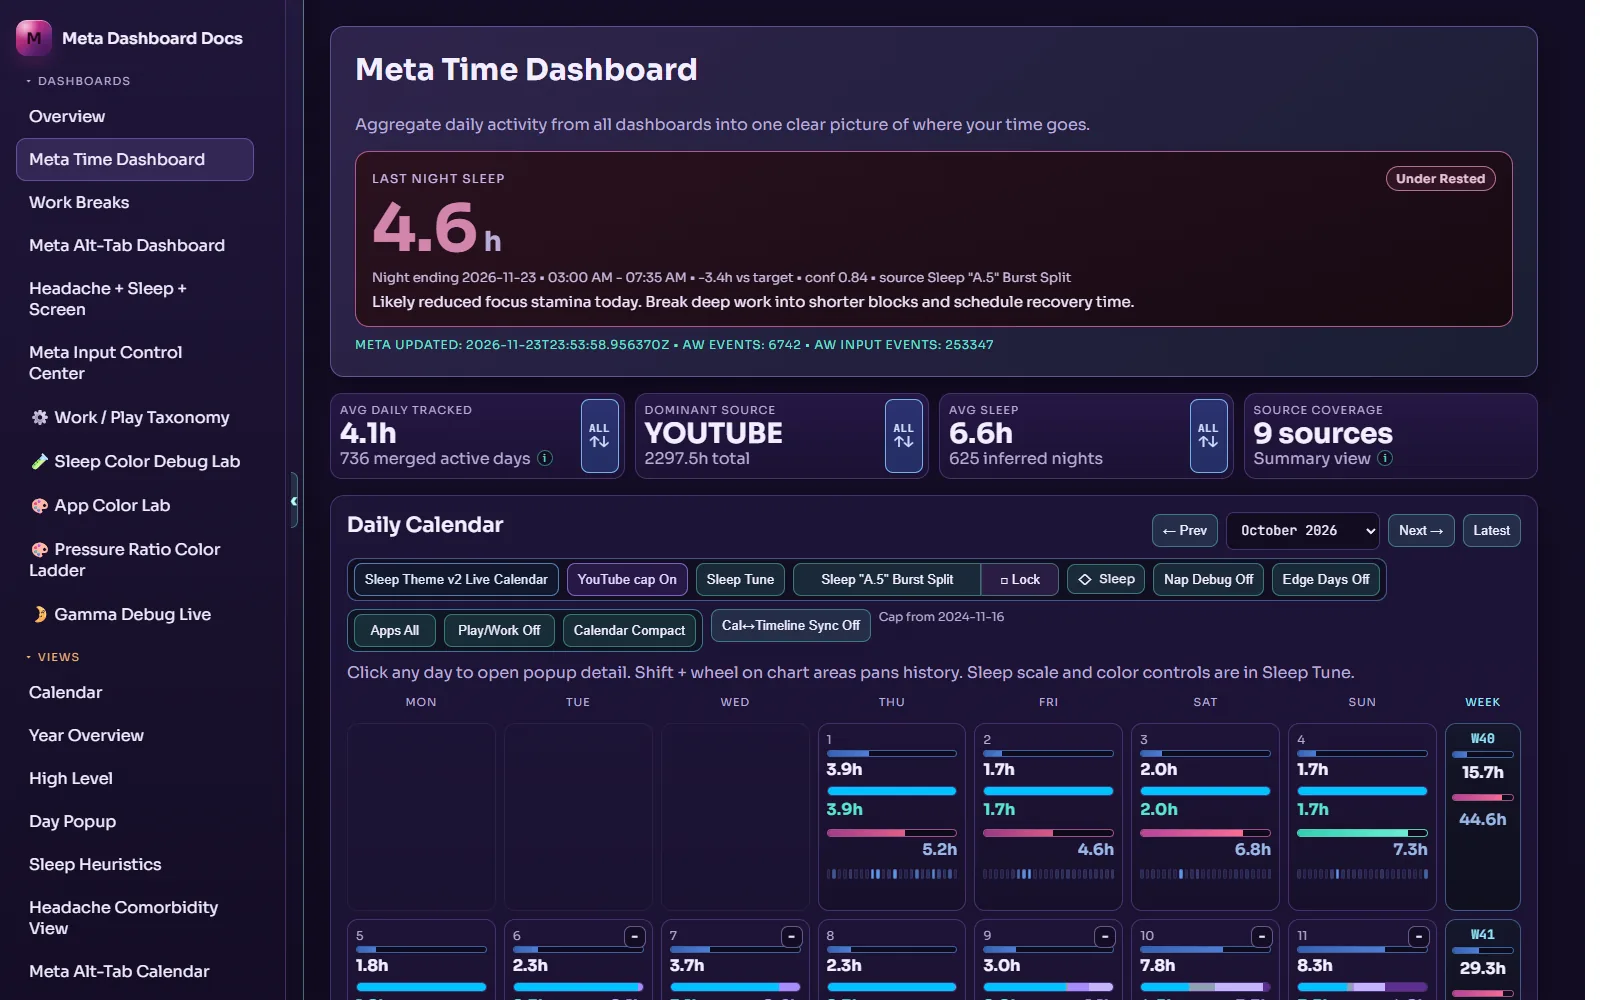
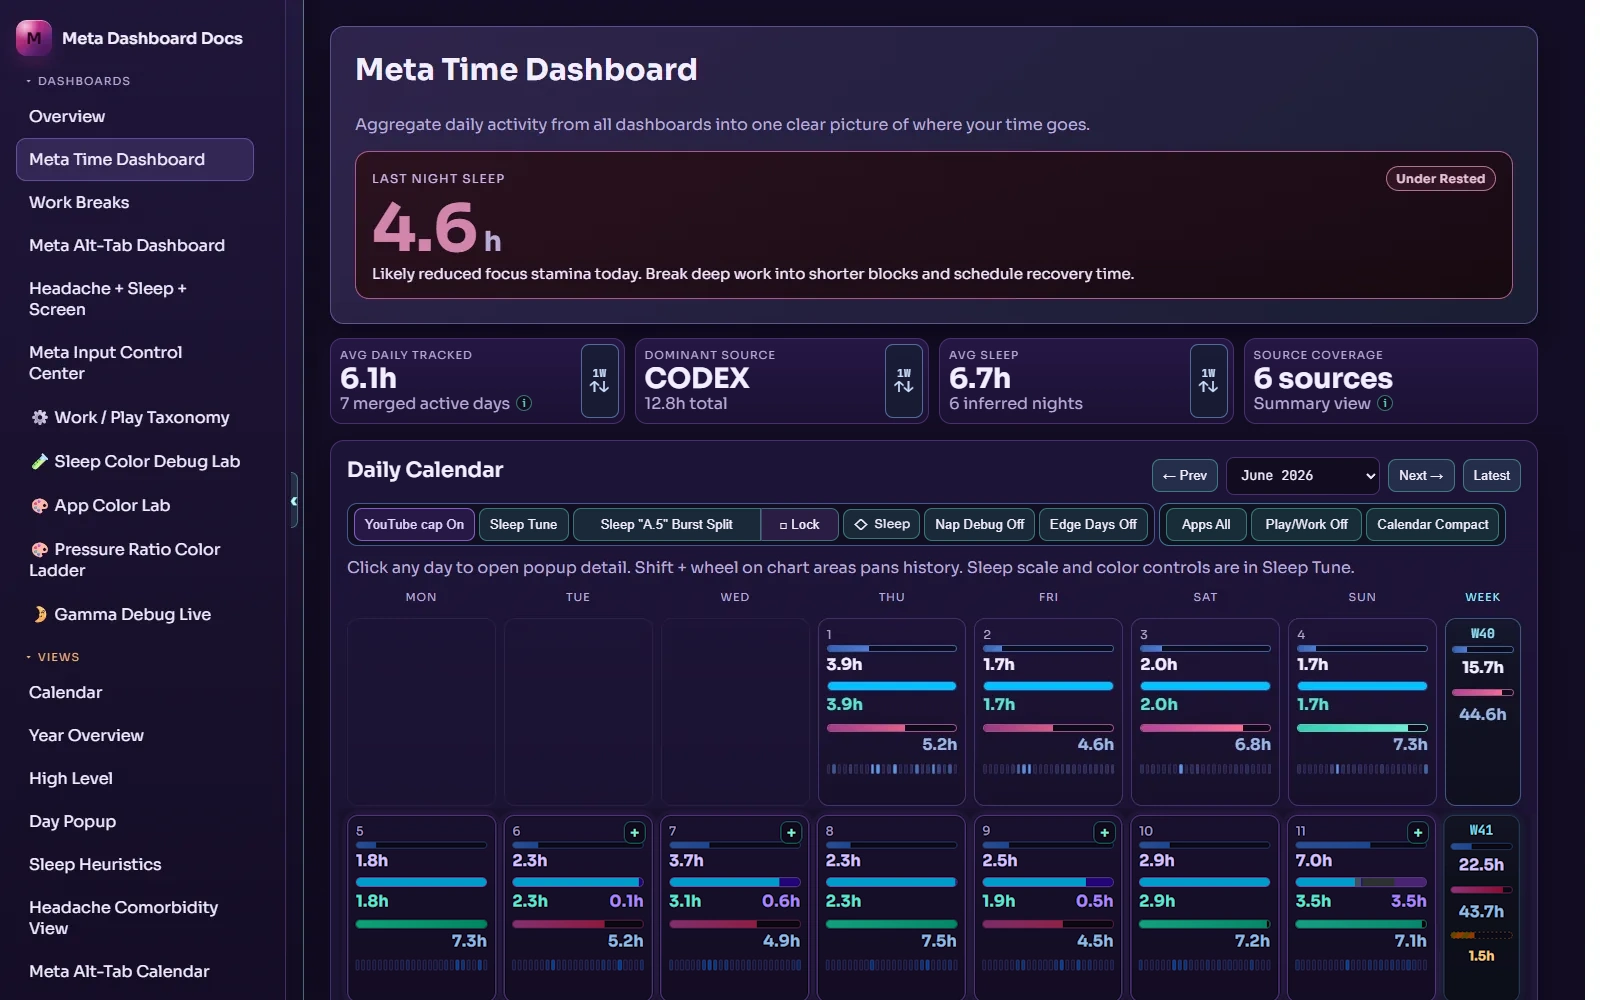
Promote updated Meta dashboard artwork

Changed region(s): [[0.1875, 0.248, 0.9688, 1.0]]

diff --git a/index.html b/index.html
@@ -64,7 +64,7 @@
 
       <div class="featured-grid">
         <article class="feature-card feature-meta">
-          <div class="feature-image"><img src="home-assets/meta-dashboard.webp" alt="Meta Dashboard daily overview showing calendar, source activity, sleep, and analytical summaries" width="1600" height="900"></div>
+          <div class="feature-image"><img src="home-assets/meta-dashboard.webp" alt="Meta Dashboard daily overview showing calendar, source activity, sleep, and analytical summaries" width="1600" height="1000"></div>
           <div class="feature-body">
             <div class="project-meta"><span>Active local system</span><span>Documentation available</span></div>
             <h3>Meta</h3>
